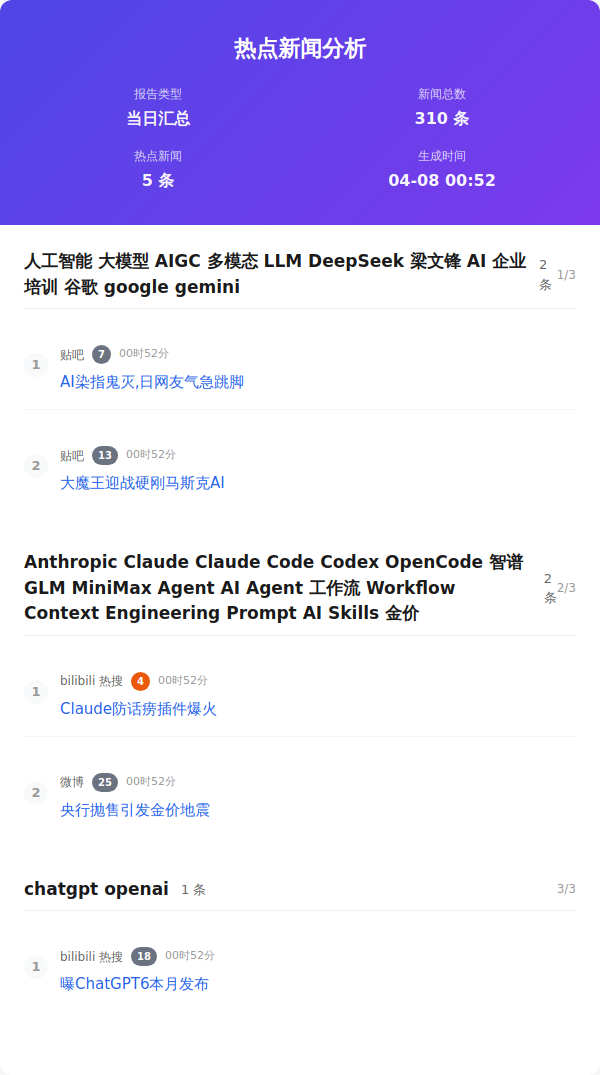
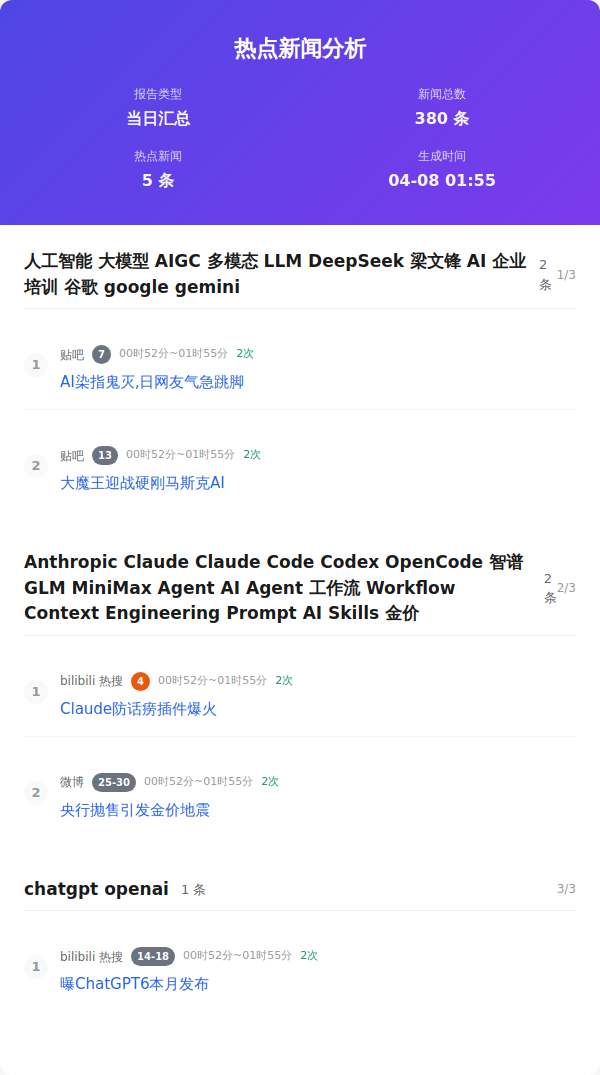
Auto update by GitHub Actions at Wed Apr  8 01:55:36 CST 2026

diff --git a/output/2026年04月08日/html/当日汇总.html b/output/2026年04月08日/html/当日汇总.html
@@ -357,7 +357,7 @@
                     </div>
                     <div class="info-item">
                         <span class="info-label">新闻总数</span>
-                        <span class="info-value">310 条</span>
+                        <span class="info-value">380 条</span>
                     </div>
                     <div class="info-item">
                         <span class="info-label">热点新闻</span>
@@ -365,7 +365,7 @@
                     </div>
                     <div class="info-item">
                         <span class="info-label">生成时间</span>
-                        <span class="info-value">04-08 00:52</span>
+                        <span class="info-value">04-08 01:55</span>
                     </div>
                 </div>
             </div>
@@ -383,7 +383,7 @@
                         <div class="news-number">1</div>
                         <div class="news-content">
                             <div class="news-header">
-                                <span class="source-name">贴吧</span><span class="rank-num ">7</span><span class="time-info">00时52分</span>
+                                <span class="source-name">贴吧</span><span class="rank-num ">7</span><span class="time-info">00时52分~01时55分</span><span class="count-info">2次</span>
                             </div>
                             <div class="news-title"><a href="https://tieba.baidu.com/hottopic/browse/hottopic?topic_id=28352871&amp;amp;topic_name=AI%E6%9F%93%E6%8C%87%E9%AC%BC%E7%81%AD%2C%E6%97%A5%E7%BD%91%E5%8F%8B%E6%B0%94%E6%80%A5%E8%B7%B3%E8%84%9A" target="_blank" class="news-link">AI染指鬼灭,日网友气急跳脚</a>
                             </div>
@@ -393,7 +393,7 @@
                         <div class="news-number">2</div>
                         <div class="news-content">
                             <div class="news-header">
-                                <span class="source-name">贴吧</span><span class="rank-num ">13</span><span class="time-info">00时52分</span>
+                                <span class="source-name">贴吧</span><span class="rank-num ">13</span><span class="time-info">00时52分~01时55分</span><span class="count-info">2次</span>
                             </div>
                             <div class="news-title"><a href="https://tieba.baidu.com/hottopic/browse/hottopic?topic_id=28352857&amp;amp;topic_name=%E5%A4%A7%E9%AD%94%E7%8E%8B%E8%BF%8E%E6%88%98%E7%A1%AC%E5%88%9A%E9%A9%AC%E6%96%AF%E5%85%8BAI" target="_blank" class="news-link">大魔王迎战硬刚马斯克AI</a>
                             </div>
@@ -412,7 +412,7 @@
                         <div class="news-number">1</div>
                         <div class="news-content">
                             <div class="news-header">
-                                <span class="source-name">bilibili 热搜</span><span class="rank-num high">4</span><span class="time-info">00时52分</span>
+                                <span class="source-name">bilibili 热搜</span><span class="rank-num high">4</span><span class="time-info">00时52分~01时55分</span><span class="count-info">2次</span>
                             </div>
                             <div class="news-title"><a href="https://search.bilibili.com/all?keyword=Claude%E9%98%B2%E8%AF%9D%E7%97%A8%E6%8F%92%E4%BB%B6%E7%88%86%E7%81%AB" target="_blank" class="news-link">Claude防话痨插件爆火</a>
                             </div>
@@ -422,7 +422,7 @@
                         <div class="news-number">2</div>
                         <div class="news-content">
                             <div class="news-header">
-                                <span class="source-name">微博</span><span class="rank-num ">25</span><span class="time-info">00时52分</span>
+                                <span class="source-name">微博</span><span class="rank-num ">25-30</span><span class="time-info">00时52分~01时55分</span><span class="count-info">2次</span>
                             </div>
                             <div class="news-title"><a href="https://s.weibo.com/weibo?q=%23%E5%A4%AE%E8%A1%8C%E6%8A%9B%E5%94%AE%E5%BC%95%E5%8F%91%E9%87%91%E4%BB%B7%E5%9C%B0%E9%9C%87%23&amp;t=31&amp;band_rank=25&amp;Refer=top" target="_blank" class="news-link">央行抛售引发金价地震</a>
                             </div>
@@ -441,7 +441,7 @@
                         <div class="news-number">1</div>
                         <div class="news-content">
                             <div class="news-header">
-                                <span class="source-name">bilibili 热搜</span><span class="rank-num ">18</span><span class="time-info">00时52分</span>
+                                <span class="source-name">bilibili 热搜</span><span class="rank-num ">14-18</span><span class="time-info">00时52分~01时55分</span><span class="count-info">2次</span>
                             </div>
                             <div class="news-title"><a href="https://search.bilibili.com/all?keyword=%E6%9B%9DGPT6%E6%9C%AC%E6%9C%88%E5%8F%91%E5%B8%83" target="_blank" class="news-link">曝ChatGPT6本月发布</a>
                             </div>